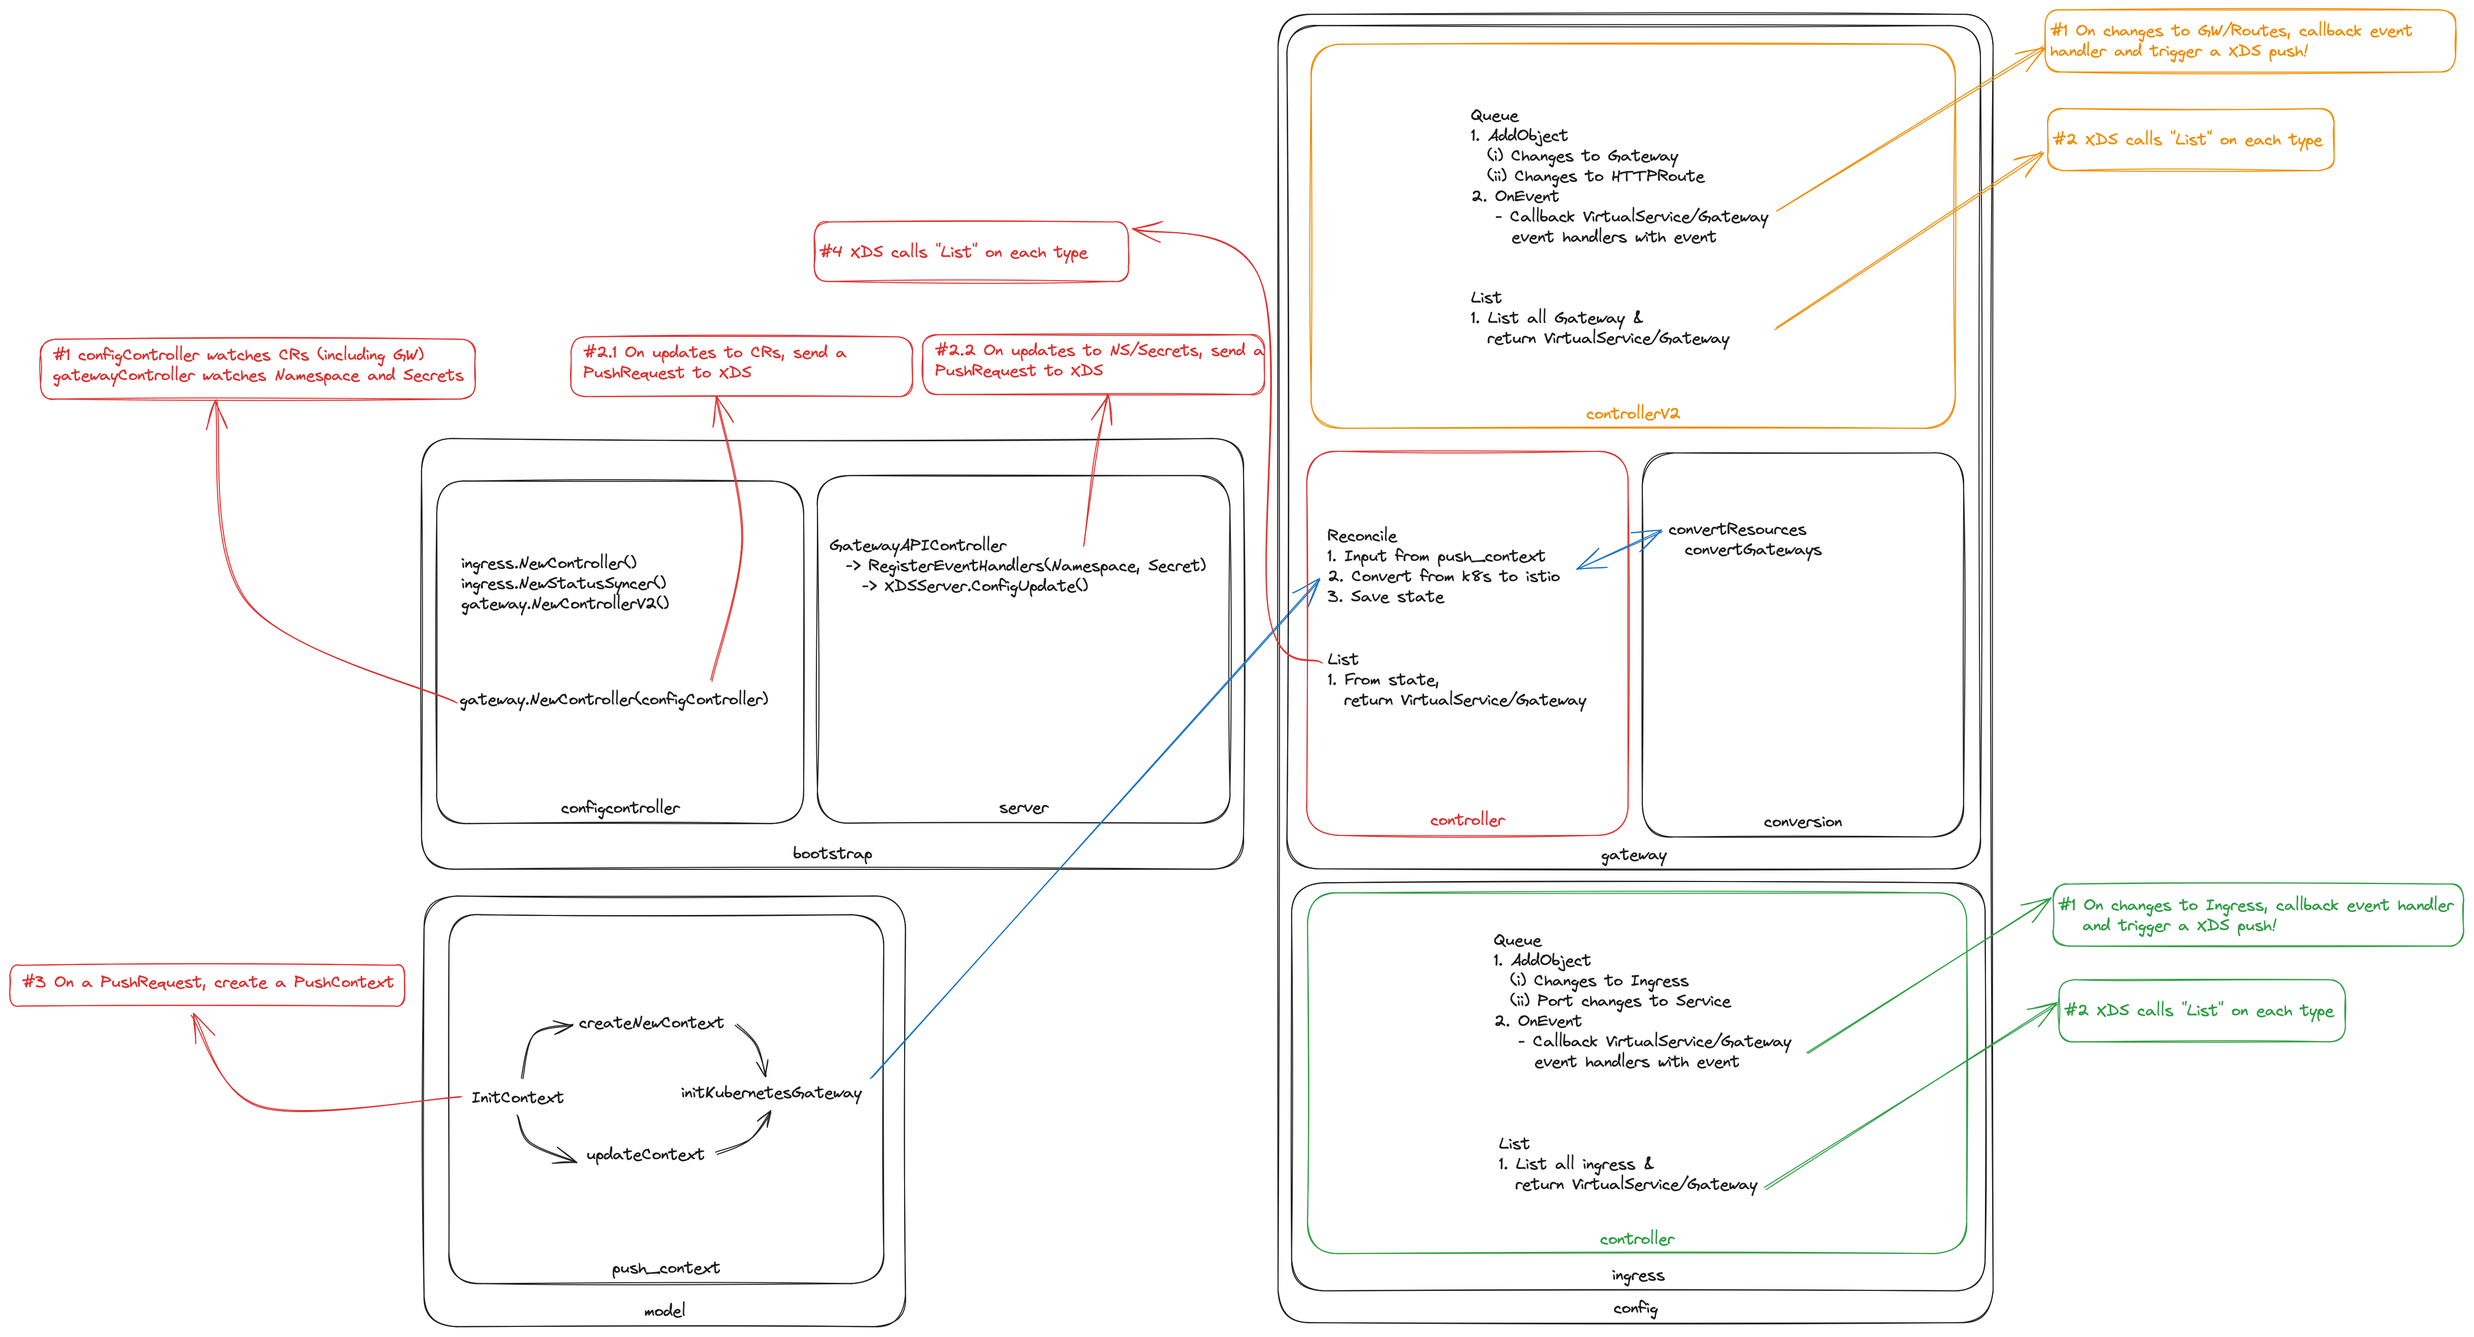
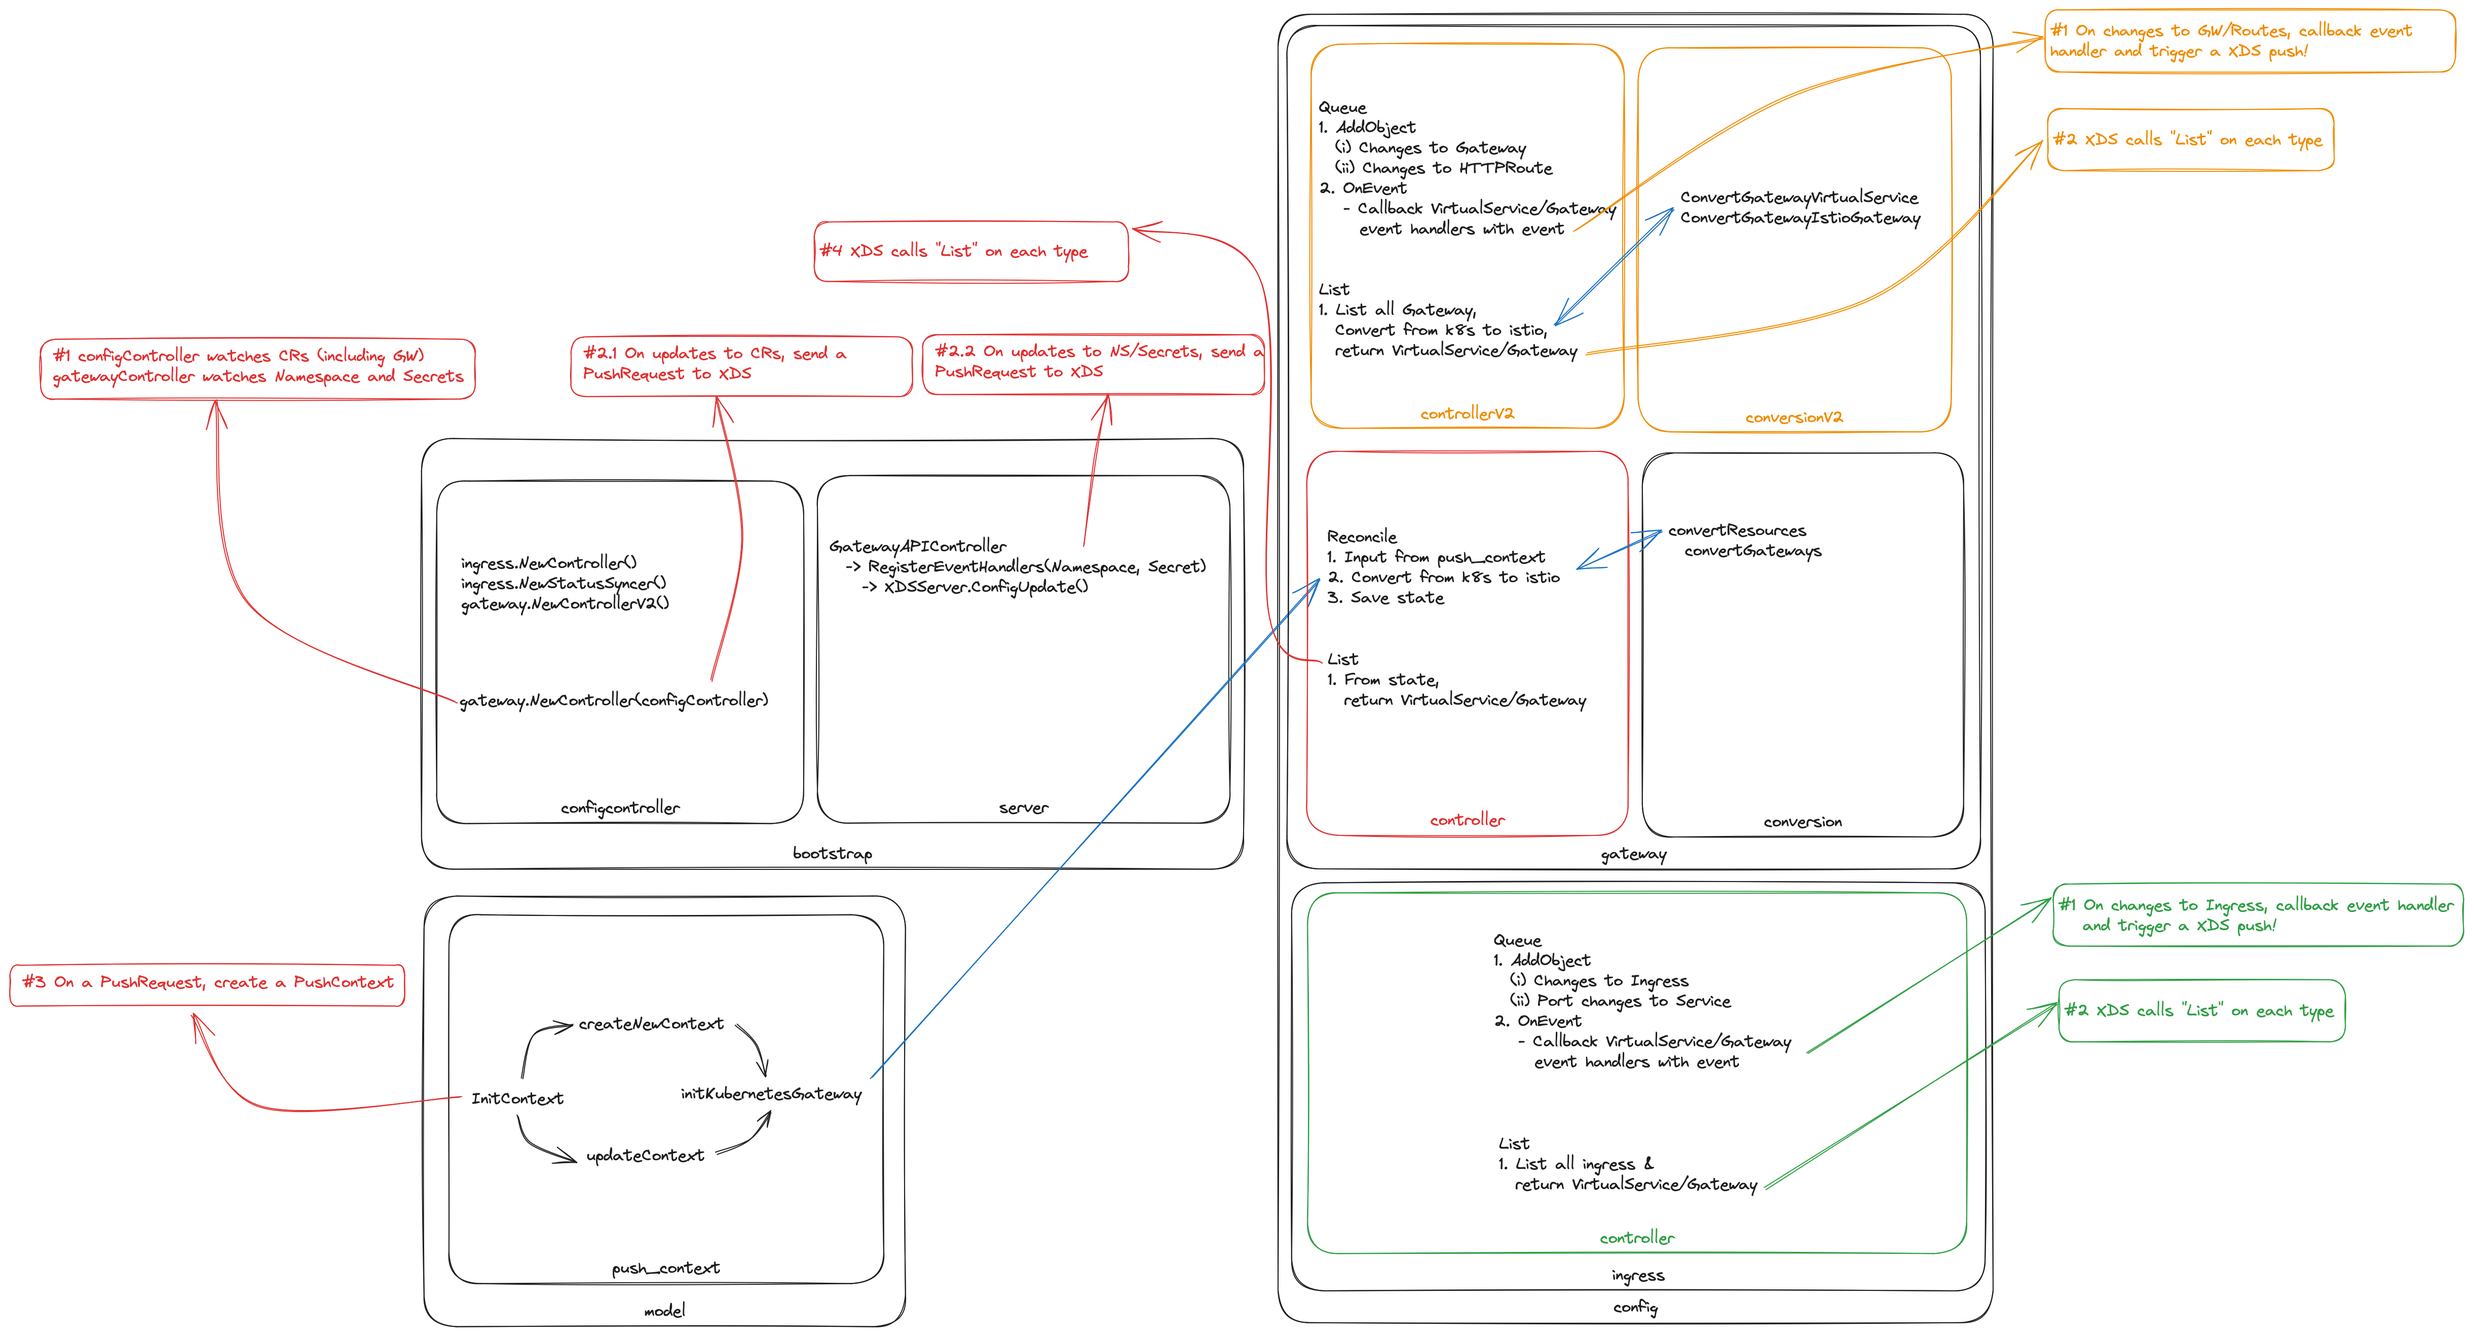
Update Controller

diff --git a/pilot/pkg/config/kube/gateway/controller_v2.go b/pilot/pkg/config/kube/gateway/controller_v2.go
@@ -3,28 +3,21 @@ package gateway
 import (
 	"fmt"
 	"sync"
-	"time"
 
-	"go.uber.org/atomic"
-	"istio.io/istio/pilot/pkg/credentials"
 	"istio.io/istio/pilot/pkg/features"
 	"istio.io/istio/pilot/pkg/model"
-	"istio.io/istio/pilot/pkg/model/kstatus"
 	kubecontroller "istio.io/istio/pilot/pkg/serviceregistry/kube/controller"
-	"istio.io/istio/pilot/pkg/status"
 	"istio.io/istio/pkg/config"
-	"istio.io/istio/pkg/config/labels"
+	"istio.io/istio/pkg/config/constants"
 	"istio.io/istio/pkg/config/schema/collection"
 	"istio.io/istio/pkg/config/schema/collections"
 	"istio.io/istio/pkg/config/schema/gvk"
 	"istio.io/istio/pkg/config/schema/gvr"
-	"istio.io/istio/pkg/config/schema/kind"
 	"istio.io/istio/pkg/kube"
 	"istio.io/istio/pkg/kube/controllers"
 	"istio.io/istio/pkg/kube/kclient"
 	istiolog "istio.io/istio/pkg/log"
-	"istio.io/istio/pkg/util/sets"
-	corev1 "k8s.io/api/core/v1"
+	"k8s.io/apimachinery/pkg/labels"
 	"k8s.io/apimachinery/pkg/runtime/schema"
 	"k8s.io/apimachinery/pkg/types"
 	k8sv1 "sigs.k8s.io/gateway-api/apis/v1"
@@ -35,35 +28,36 @@ var logV2 = istiolog.RegisterScope("gateway_v2", "gateway-api controller v2")
 var errUnsupportedOpV2 = fmt.Errorf("unsupported operation: the gateway config store is a read-only view")
 
 type ControllerV2 struct {
-	// client for accessing Kubernetes
+	// Client for accessing Kubernetes
 	client kube.Client
 
 	queue                  controllers.Queue
 	virtualServiceHandlers []model.EventHandler
 	gatewayHandlers        []model.EventHandler
 
-	// state is our computed Istio resources. Access is guarded by stateMu.
-	// This is updated from Reconcile().
-	state   IstioResources
-	stateMu sync.RWMutex
+	// Processed Gateways
+	gatewaysMMu sync.RWMutex
+	gatewaysM   map[types.NamespacedName]*k8sv1.Gateway
 
-	// Gateway-api types reference namespace labels directly, so we need access to these
-	namespaces       kclient.Client[*corev1.Namespace]
-	namespaceHandler model.EventHandler
+	// TODO: these are not used yet, but will be needed.
+	// // Gateway API types reference namespaces directly
+	// namespaces       kclient.Client[*corev1.Namespace]
+	// namespaceHandler model.EventHandler
 
-	// Gateway-api types reference secrets directly, so we need access to these
-	credentialsController credentials.MulticlusterController
-	secretHandler         model.EventHandler
+	// // Gateway-api types reference secrets directly
+	// credentialsController credentials.MulticlusterController
+	// secretHandler         model.EventHandler
 
 	// TODO: Add more Gateway API resources.
 	gatewayClasses kclient.Client[*k8sv1.GatewayClass]
 	gateways       kclient.Client[*k8sv1.Gateway]
 	httpRoutes     kclient.Client[*k8sv1.HTTPRoute]
 
-	// statusController controls the status working queue. Status will only be written if statusEnabled is true, which
-	// is only the case when we are the leader.
-	statusController *status.Controller
-	statusEnabled    *atomic.Bool
+	// TODO: enable status reporting
+	// // statusController controls the status working queue. Status will only be written if statusEnabled is true, which
+	// // is only the case when we are the leader.
+	// statusController *status.Controller
+	// statusEnabled    *atomic.Bool
 
 	waitForCRD func(class schema.GroupVersionResource, stop <-chan struct{}) bool
 }
@@ -71,110 +65,120 @@ type ControllerV2 struct {
 func NewControllerV2(
 	kc kube.Client,
 	options kubecontroller.Options,
-	credsController credentials.MulticlusterController,
 	waitForCRD func(class schema.GroupVersionResource, stop <-chan struct{}) bool,
 ) model.ConfigStoreController {
-	var ctl *status.Controller
-
-	namespaces := kclient.New[*corev1.Namespace](kc)
 	gatewayClasses := kclient.New[*k8sv1.GatewayClass](kc)
 	gateways := kclient.NewFiltered[*k8sv1.Gateway](kc, kclient.Filter{ObjectFilter: options.GetFilter()})
 	httpRoutes := kclient.NewFiltered[*k8sv1.HTTPRoute](kc, kclient.Filter{ObjectFilter: options.GetFilter()})
 
 	c := &ControllerV2{
-		client:                kc,
-		namespaces:            namespaces,
-		credentialsController: credsController,
-		gatewayClasses:        gatewayClasses,
-		gateways:              gateways,
-		httpRoutes:            httpRoutes,
-		statusController:      ctl,
+		client:         kc,
+		gatewaysM:      make(map[types.NamespacedName]*k8sv1.Gateway),
+		gatewayClasses: gatewayClasses,
+		gateways:       gateways,
+		httpRoutes:     httpRoutes,
 		// Disabled by default, we will enable only if we win the leader election
-		statusEnabled: atomic.NewBool(false),
-		waitForCRD:    waitForCRD,
+		waitForCRD: waitForCRD,
 	}
 
 	c.queue = controllers.NewQueue("gateway-api",
 		controllers.WithReconciler(c.OnEvent),
-		controllers.WithMaxAttempts(25))
+		controllers.WithMaxAttempts(5))
 
-	c.gatewayClasses.AddEventHandler(controllers.ObjectHandler(c.queue.AddObject))
 	c.gateways.AddEventHandler(controllers.ObjectHandler(c.queue.AddObject))
-	c.httpRoutes.AddEventHandler(controllers.ObjectHandler(c.queue.AddObject))
-
-	c.namespaces.AddEventHandler(controllers.EventHandler[*corev1.Namespace]{
-		UpdateFunc: func(oldNs, newNs *corev1.Namespace) {
-			if options.DiscoveryNamespacesFilter != nil && !options.DiscoveryNamespacesFilter.Filter(newNs) {
-				return
-			}
-			if !labels.Instance(oldNs.Labels).Equals(newNs.Labels) {
-				c.namespaceEvent(oldNs, newNs)
-			}
-		},
-	})
-
-	if credsController != nil {
-		credsController.AddSecretHandler(c.secretEvent)
-	}
+	c.httpRoutes.AddEventHandler(controllers.FromEventHandler(func(o controllers.Event) {
+		c.onHttpRouteEvent(o)
+	}))
 
 	return c
 }
 
-func (c *ControllerV2) OnEvent(item types.NamespacedName) error {
-	t0 := time.Now()
-	defer func() {
-		logV2.Debugf("reconcile complete in %v", time.Since(t0))
-	}()
+func (c *ControllerV2) onHttpRouteEvent(event controllers.Event) {
+	// TODO, think more about this.
+	// At this point, updates to HTTP routes trigger
+	// updates to the Gateway.
+	curHttpRoute := event.Latest().(*k8sv1.HTTPRoute)
 
-	// gatewayClass := c.gatewayClasses.List(metav1.NamespaceAll)
-	// gateway := c.cache.List(gvk.KubernetesGateway, metav1.NamespaceAll)
-	// httpRoute := c.cache.List(gvk.HTTPRoute, metav1.NamespaceAll)
+	// If curHttpRoute.Spec.ParentRefs contains a Gateway, we need to process it.
+	if curHttpRoute.Spec.ParentRefs != nil {
+		for _, ref := range curHttpRoute.Spec.ParentRefs {
+			logV2.Warnf("HTTPRoute %s/%s has parent ref %s/%s with kind %s", curHttpRoute.Namespace, curHttpRoute.Name, ref.Namespace, ref.Name, ref.Kind)
+			if ref.Kind == (*k8sv1.Kind)(&gvk.Gateway.Kind) {
+				gw := c.gateways.Get(string(ref.Name), string(*ref.Namespace))
+				if gw != nil {
+					c.queue.AddObject(gw)
+				}
+			}
+		}
+	}
+
+}
+
+// OnEvent always receives a Gateway item.
+func (c *ControllerV2) OnEvent(item types.NamespacedName) error {
+	logV2.Warnf("OnEvent %s/%s", item.Namespace, item.Name)
 
 	event := model.EventUpdate
+	gw := c.gateways.Get(item.Name, item.Namespace)
+	if gw == nil {
+		event = model.EventDelete
+		c.gatewaysMMu.Lock()
+		gw = c.gatewaysM[item]
+		delete(c.gatewaysM, item)
+		c.gatewaysMMu.Unlock()
+		if gw == nil {
+			// This is a delete event and we didn't have an existing known gateway, no action.
+			return nil
+		}
+	}
 
-	output := convertResources(input)
+	// If this is a delete event for a known gateway, needs processing.
+	// If this an update event, we need to check if the gateway needs processing.
+	if event != model.EventDelete && !c.shouldProcessGatewayUpdate(gw) {
+		logV2.Warnf("Gateway %s/%s is not for this controller, no action", gw.Namespace, gw.Name)
+		return nil
+	}
 
-	// Handle all status updates
-	c.queueStatusUpdates(input)
+	vsmetadata := config.Meta{
+		Name:             item.Name + "-" + "virtualservice",
+		Namespace:        item.Namespace,
+		GroupVersionKind: gvk.VirtualService,
+		// Set this label so that we do not compare configs and just push.
+		Labels: map[string]string{constants.AlwaysPushLabel: "true"},
+	}
+	gatewaymetadata := config.Meta{
+		Name:             item.Name + "-" + "gateway",
+		Namespace:        item.Namespace,
+		GroupVersionKind: gvk.Gateway,
+		// Set this label so that we do not compare configs and just push.
+		Labels: map[string]string{constants.AlwaysPushLabel: "true"},
+	}
 
-	c.stateMu.Lock()
-	defer c.stateMu.Unlock()
-	c.state = output
+	// Trigger updates for Gateway and VirtualService
+	// TODO: we could be smarter here and only trigger when real changes were found
+	for _, f := range c.virtualServiceHandlers {
+		f(config.Config{Meta: vsmetadata}, config.Config{Meta: vsmetadata}, event)
+	}
+	for _, f := range c.gatewayHandlers {
+		f(config.Config{Meta: gatewaymetadata}, config.Config{Meta: gatewaymetadata}, event)
+	}
+
 	return nil
 }
 
-func (c *ControllerV2) queueStatusUpdates(r GatewayResources) {
-	c.handleStatusUpdates(r.GatewayClass)
-	c.handleStatusUpdates(r.Gateway)
-	c.handleStatusUpdates(r.HTTPRoute)
-	// TODO: Add more Gateway API resources.
-	// c.handleStatusUpdates(r.GRPCRoute)
-	// c.handleStatusUpdates(r.TCPRoute)
-	// c.handleStatusUpdates(r.TLSRoute)
-}
+func (c *ControllerV2) shouldProcessGatewayUpdate(gw *k8sv1.Gateway) bool {
+	className := string(gw.Spec.GatewayClassName)
 
-func (c *ControllerV2) handleStatusUpdates(configs []config.Config) {
-	if c.statusController == nil || !c.statusEnabled.Load() {
-		return
+	// No gateway class found, this maybe meant for another controller, no action.
+	if className == "" {
+		logV2.Warnf("Gateway %s/%s has no gateway class, no action", gw.Namespace, gw.Name)
+		return false
 	}
-	for _, cfg := range configs {
-		ws := cfg.Status.(*kstatus.WrappedStatus)
-		if ws.Dirty {
-			res := status.ResourceFromModelConfig(cfg)
-			c.statusController.EnqueueStatusUpdateResource(ws.Unwrap(), res)
-		}
-	}
-}
 
-func (c *ControllerV2) SetStatusWrite(enabled bool, statusManager *status.Manager) {
-	c.statusEnabled.Store(enabled)
-	if enabled && features.EnableGatewayAPIGatewayClassControllerV2 && statusManager != nil {
-		c.statusController = statusManager.CreateGenericController(func(status any, context any) status.GenerationProvider {
-			return &gatewayGeneration{context}
-		})
-	} else {
-		c.statusController = nil
-	}
+	// TODO: perform other checks here, see conversion.go.
+	gwc := c.gatewayClasses.Get(className, "")
+	// Invalid gateway class, no action.
+	return gwc != nil
 }
 
 func (c *ControllerV2) List(typ config.GroupVersionKind, namespace string) []config.Config {
@@ -182,25 +186,38 @@ func (c *ControllerV2) List(typ config.GroupVersionKind, namespace string) []con
 		return nil
 	}
 
-	c.stateMu.RLock()
-	defer c.stateMu.RUnlock()
-	switch typ {
-	case gvk.Gateway:
-		return filterNamespace(c.state.Gateway, namespace)
-	case gvk.VirtualService:
-		return filterNamespace(c.state.VirtualService, namespace)
-	default:
-		return nil
+	out := make([]config.Config, 0)
+	gateways := c.gateways.List("", labels.Everything())
+	httpRoutes := c.httpRoutes.List("", labels.Everything())
+
+	for _, gw := range gateways {
+		processGw := c.shouldProcessGatewayUpdate(gw)
+		if !processGw {
+			continue
+		}
+
+		switch typ {
+		case gvk.Gateway:
+			out = append(out, ConvertGatewayIstioGateway(gw, httpRoutes))
+		case gvk.VirtualService:
+			out = append(out, ConvertGatewayVirtualService(gw, httpRoutes))
+		}
 	}
+
+	return out
+}
+
+func ConvertGatewayVirtualService(gw *k8sv1.Gateway, httpRoutes []*k8sv1.HTTPRoute) config.Config {
+	return nil
+}
+
+func ConvertGatewayIstioGateway(gw *k8sv1.Gateway, httpRoutes []*k8sv1.HTTPRoute) config.Config {
+	return nil
 }
 
 // RegisterEventHandler implements model.ConfigStoreController.
 func (c *ControllerV2) RegisterEventHandler(kind config.GroupVersionKind, f model.EventHandler) {
 	switch kind {
-	case gvk.Namespace:
-		c.namespaceHandler = f
-	case gvk.Secret:
-		c.secretHandler = f
 	case gvk.Gateway:
 		c.gatewayHandlers = append(c.gatewayHandlers, f)
 	case gvk.VirtualService:
@@ -227,7 +244,7 @@ func (*ControllerV2) Schemas() collection.Schemas {
 }
 
 func (c *ControllerV2) HasSynced() bool {
-	return c.queue.HasSynced() && c.namespaces.HasSynced()
+	return c.queue.HasSynced()
 }
 
 func (*ControllerV2) Get(typ config.GroupVersionKind, name string, namespace string) *config.Config {
@@ -252,53 +269,4 @@ func (c *ControllerV2) Patch(orig config.Config, patchFn config.PatchFunc) (stri
 
 func (c *ControllerV2) Delete(typ config.GroupVersionKind, name, namespace string, _ *string) error {
 	return errUnsupportedOpV2
-}
-
-// namespaceEvent handles a namespace add/update. Gateway's can select routes by label, so we need to handle
-// when the labels change.
-// Note: we don't handle delete as a delete would also clean up any relevant gateway-api types which will
-// trigger its own event.
-func (c *ControllerV2) namespaceEvent(oldNs, newNs *corev1.Namespace) {
-	// First, find all the label keys on the old/new namespace. We include NamespaceNameLabel
-	// since we have special logic to always allow this on namespace.
-	touchedNamespaceLabels := sets.New(NamespaceNameLabel)
-	touchedNamespaceLabels.InsertAll(getLabelKeys(oldNs)...)
-	touchedNamespaceLabels.InsertAll(getLabelKeys(newNs)...)
-
-	// Next, we find all keys our Gateways actually reference.
-	c.stateMu.RLock()
-	intersection := touchedNamespaceLabels.Intersection(c.state.ReferencedNamespaceKeys)
-	c.stateMu.RUnlock()
-
-	// If there was any overlap, then a relevant namespace label may have changed, and we trigger a
-	// push. A more exact check could actually determine if the label selection result actually changed.
-	// However, this is a much simpler approach that is likely to scale well enough for now.
-	if !intersection.IsEmpty() && c.namespaceHandler != nil {
-		logV2.Debugf("namespace labels changed, triggering namespace handler: %v", intersection.UnsortedList())
-		c.namespaceHandler(config.Config{}, config.Config{}, model.EventUpdate)
-	}
-}
-
-func (c *ControllerV2) secretEvent(name, namespace string) {
-	var impactedConfigs []model.ConfigKey
-	c.stateMu.RLock()
-	impactedConfigs = c.state.ResourceReferences[model.ConfigKey{
-		Kind:      kind.Secret,
-		Namespace: namespace,
-		Name:      name,
-	}]
-	c.stateMu.RUnlock()
-	if len(impactedConfigs) > 0 {
-		logV2.Debugf("secret %s/%s changed, triggering secret handler", namespace, name)
-		for _, cfg := range impactedConfigs {
-			gw := config.Config{
-				Meta: config.Meta{
-					GroupVersionKind: gvk.KubernetesGateway,
-					Namespace:        cfg.Namespace,
-					Name:             cfg.Name,
-				},
-			}
-			c.secretHandler(gw, gw, model.EventUpdate)
-		}
-	}
 }
